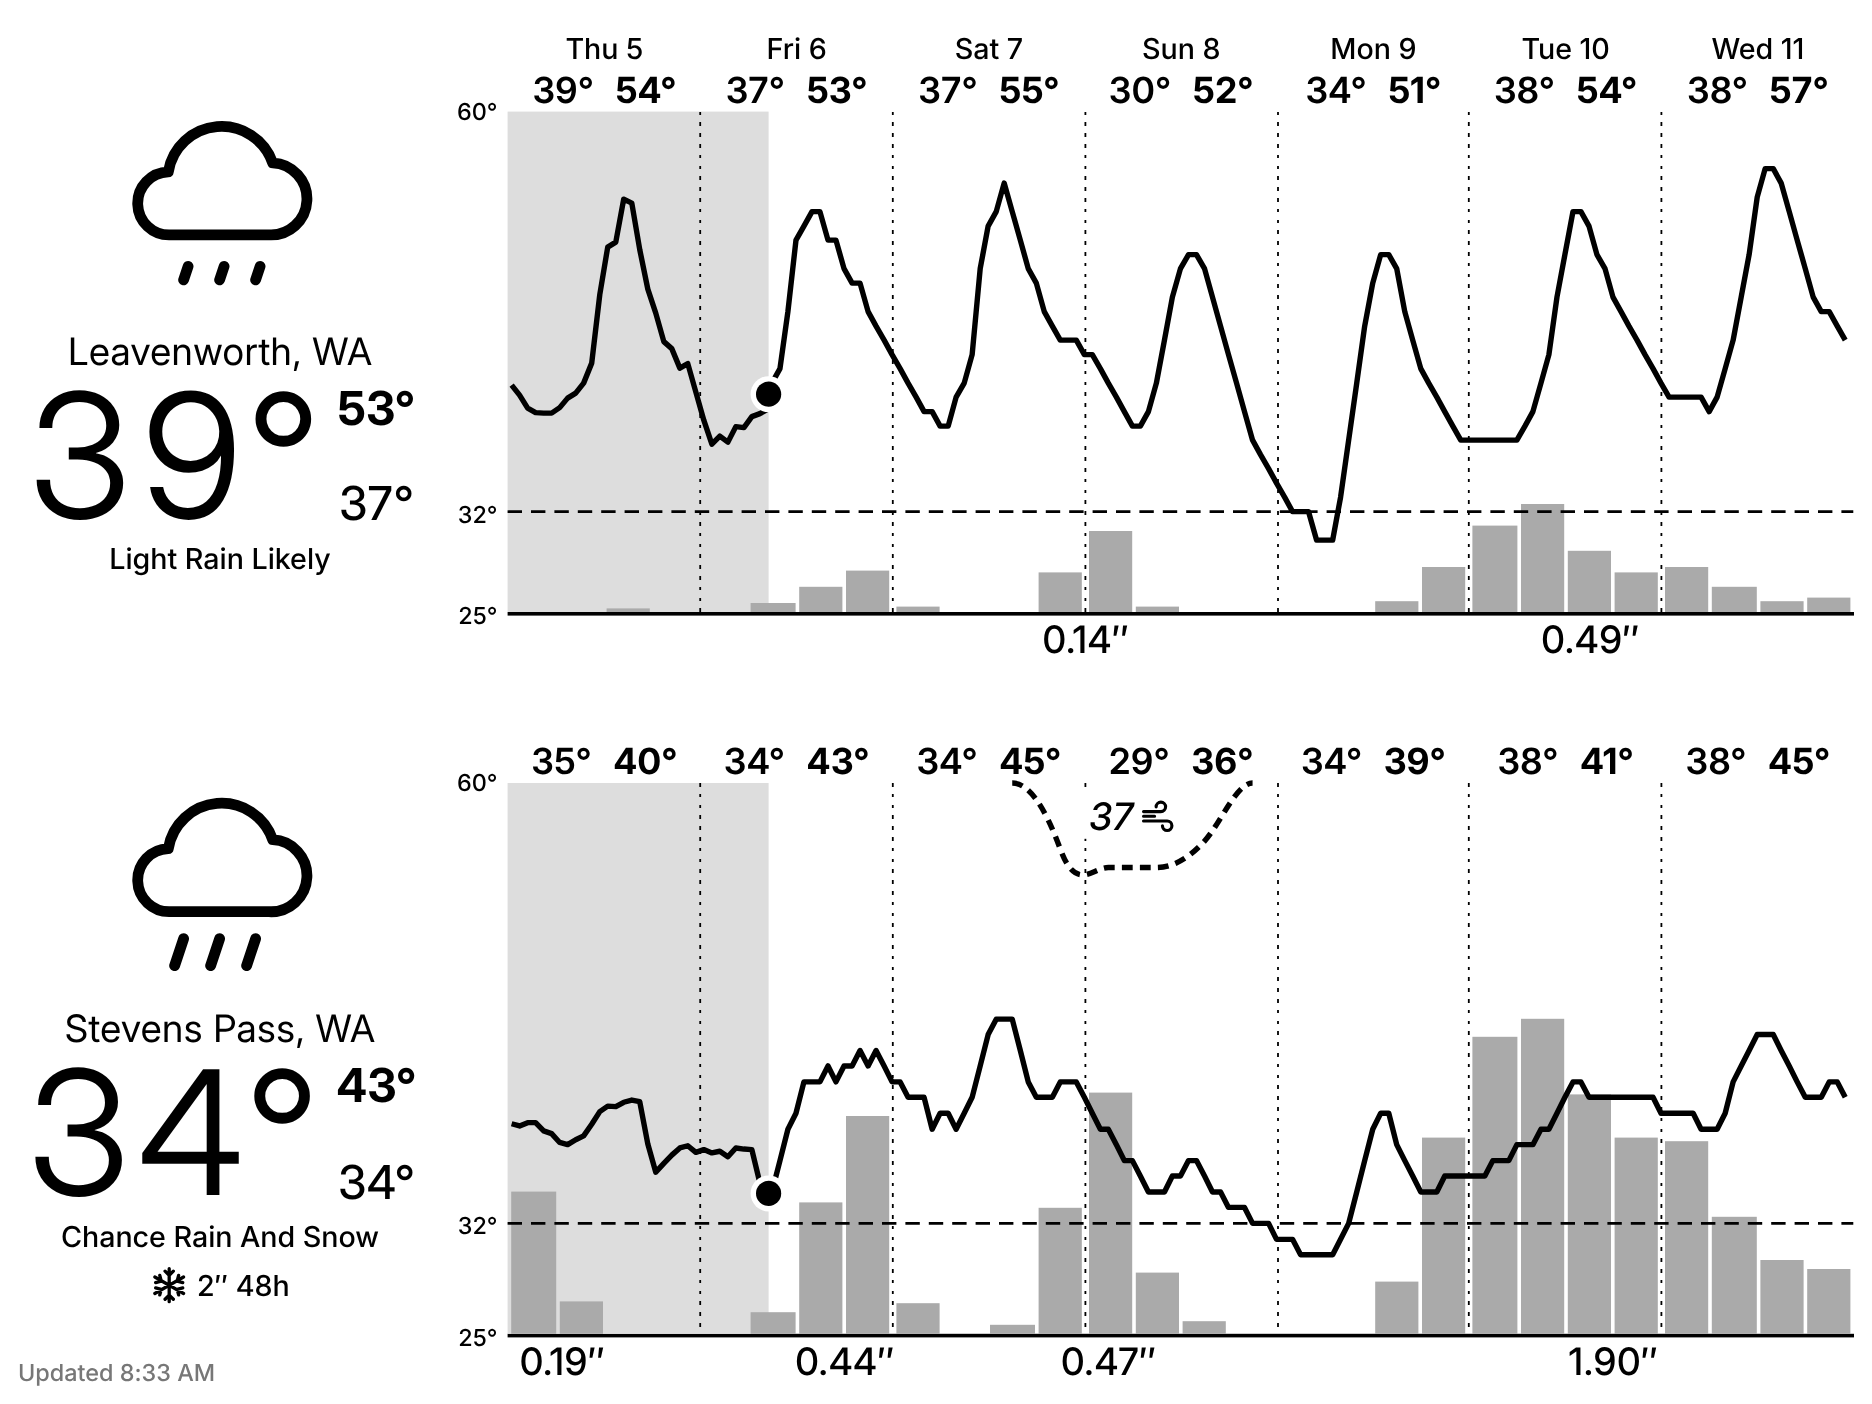
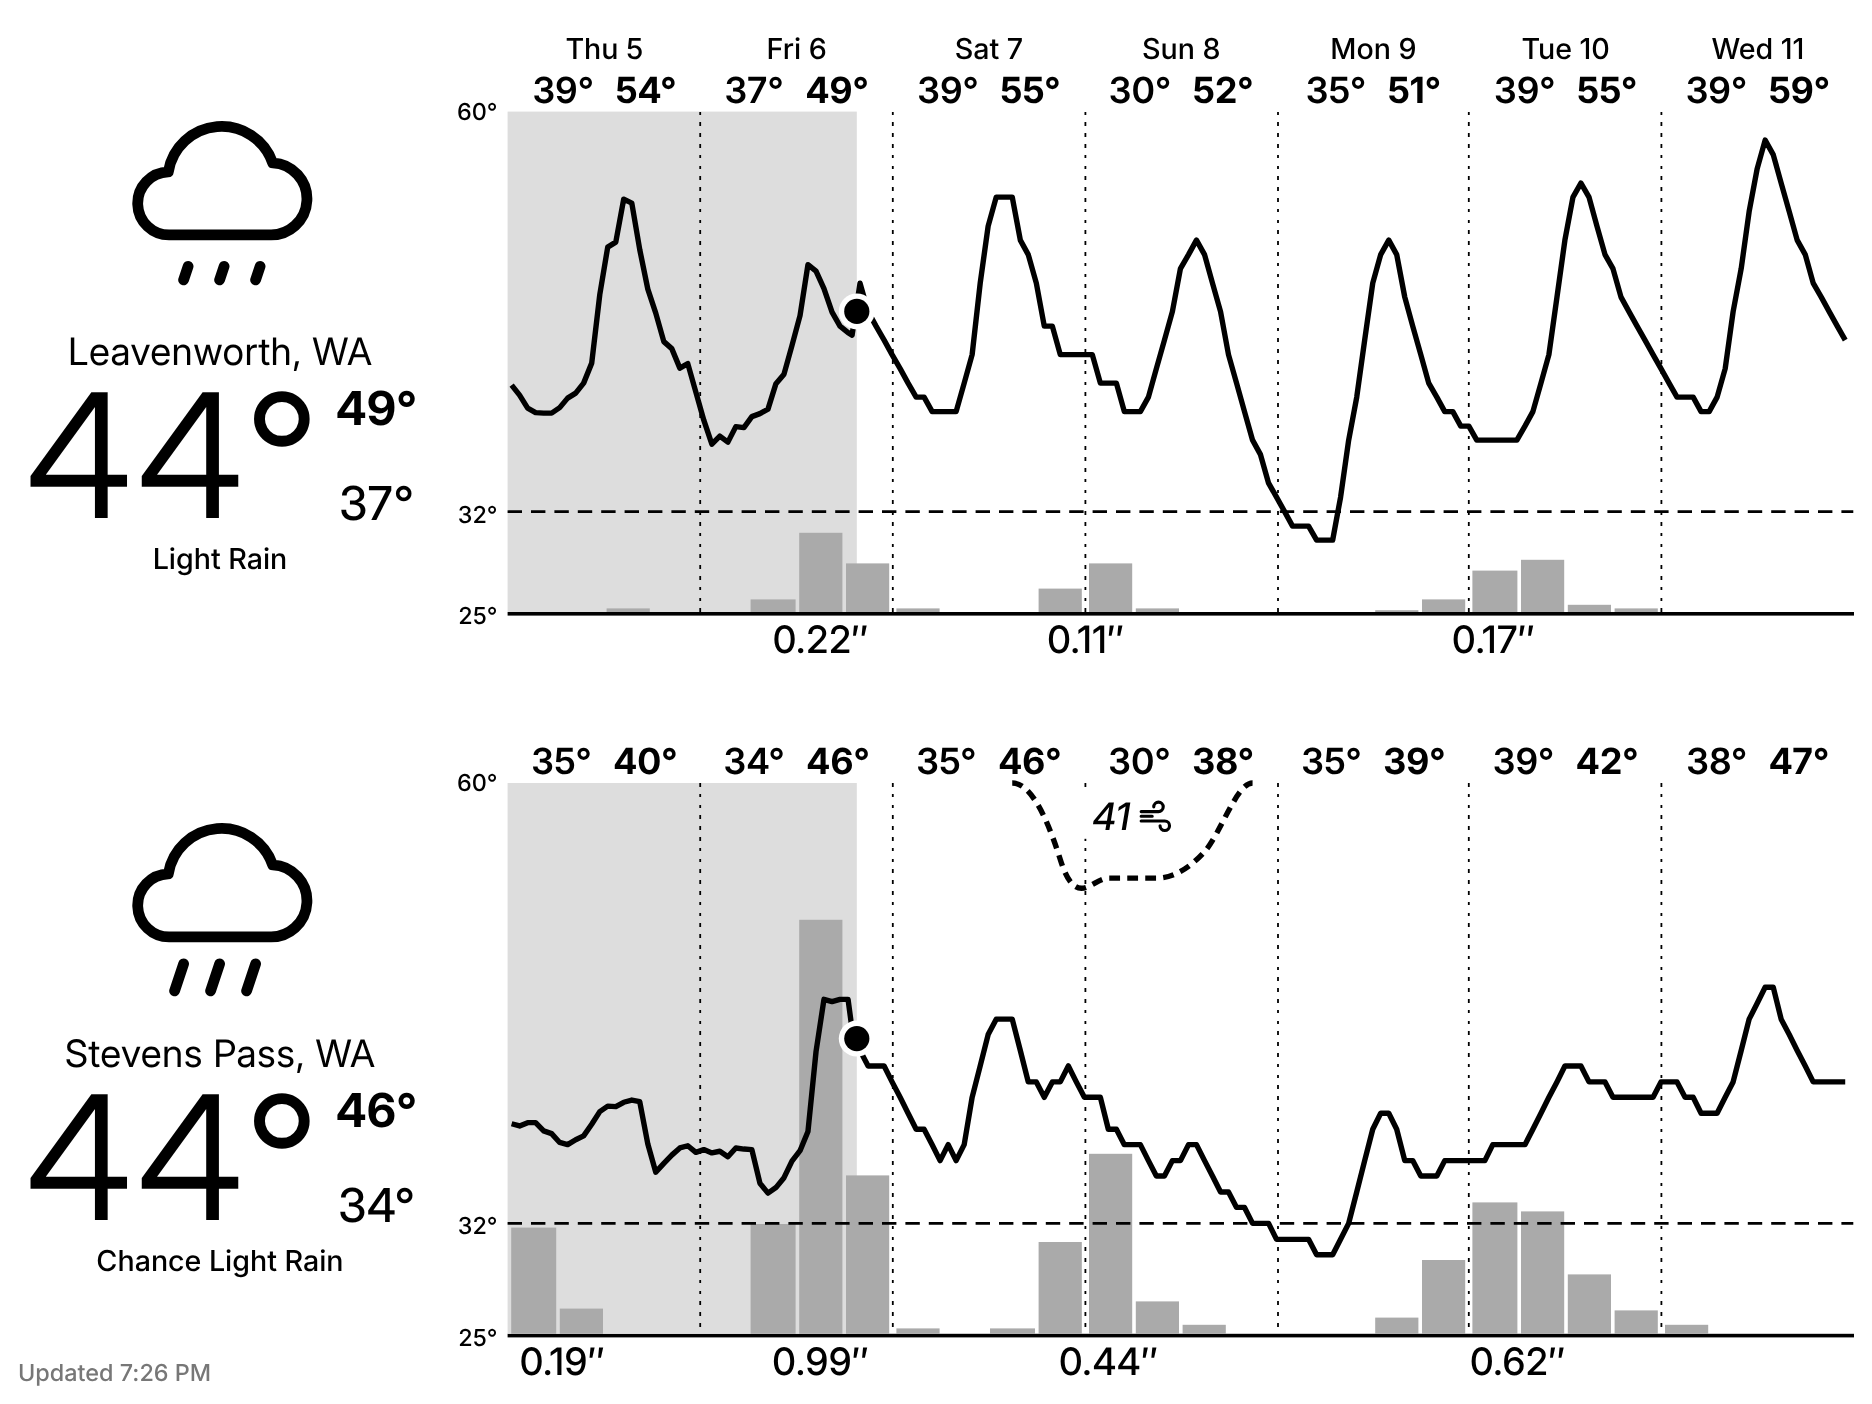
Cap bars at 75% of the chart, scaled so 6" of snow (0.6" of rain) reaches it
Claude-Session: https://claude.ai/code/session_018zBtTfGxqR6ysBZYHYeVbJ

diff --git a/server/forecast/glance_test.go b/server/forecast/glance_test.go
@@ -316,12 +316,12 @@ func TestBuildChartRainAndSnow(t *testing.T) {
 	days := make([]Day, 3)
 
 	// auto: rain buckets as rain bars, snow buckets as snow bars, on fixed scales where half
-	// height is 0.3″ of rain or 3″ of snow per 6 hours: 0.5″ of rain is 83.3%, 1″ of snow 16.7%.
+	// height is 0.3″ of rain or 3″ of snow per 6 hours: 0.5″ of rain is 62.5%, 1″ of snow 12.5%.
 	c := buildChart(&grid, days, loc, now, "us", "auto", nil, nil, 0)
 	if c.BarKind != "auto" || len(c.Bars) != 12 {
 		t.Fatalf("chart = %+v", c)
 	}
-	want := map[int]Bar{3: {83.3, "rain", "gray-55", false}, 6: {16.7, "snow", "gray-35", false}, 7: {16.7, "snow", "gray-35", false}}
+	want := map[int]Bar{3: {62.5, "rain", "gray-55", false}, 6: {12.5, "snow", "gray-35", false}, 7: {12.5, "snow", "gray-35", false}}
 	for i, b := range c.Bars {
 		if b != want[i] {
 			t.Errorf("bar %d = %+v, want %+v", i, b, want[i])
@@ -345,7 +345,7 @@ func TestBuildChartRainAndSnow(t *testing.T) {
 	// precip: all liquid, snow included as water (0.1″ per bucket), on the rain scale.
 	days = make([]Day, 3)
 	c = buildChart(&grid, days, loc, now, "us", "precip", nil, nil, 0)
-	if c.Bars[3].Height != 83.3 || c.Bars[6] != (Bar{16.7, "rain", "gray-55", false}) || c.Label != "Precip 0.70″" ||
+	if c.Bars[3].Height != 62.5 || c.Bars[6] != (Bar{12.5, "rain", "gray-55", false}) || c.Label != "Precip 0.70″" ||
 		!reflect.DeepEqual(days[1].Amounts, []string{"0.20″ precip"}) {
 		t.Errorf("precip chart = %+v, days %+v", c, days)
 	}
@@ -417,8 +417,8 @@ func TestShareScale(t *testing.T) {
 }
 
 func TestBarScale(t *testing.T) {
-	// Snow per 6 hours: linear with 3″ at half height, 6″ at full, more clipped to full.
-	for _, tc := range []struct{ amount, want float64 }{{0, 0}, {1, 16.7}, {1.5, 25}, {3, 50}, {4.5, 75}, {6, 100}, {24, 100}} {
+	// Snow per 6 hours: linear, 6″ makes the tallest bar (75% of the chart), more stops there.
+	for _, tc := range []struct{ amount, want float64 }{{0, 0}, {1, 12.5}, {1.5, 18.8}, {3, 37.5}, {4.5, 56.3}, {6, 75}, {24, 75}} {
 		if got := barHeight(tc.amount, snowHalfIn); got != tc.want {
 			t.Errorf("snow %v″ = %v%%, want %v%%", tc.amount, got, tc.want)
 		}

diff --git a/server/forecast/chart.go b/server/forecast/chart.go
@@ -203,18 +203,21 @@ type Bar struct {
 var barShades = map[string]string{"snow": "gray-35", "rain": "gray-55"}
 
 // Bar scales, per 6 hours. They never change, so the bars read the same on every screen and
-// every day: a half-height bar is 3″ of snow (0.3″ of rain), height is proportional to the
-// amount, and anything past full height (6″ / 0.6″) is drawn at full height, with the day's
-// amount label giving the real number. Snow and rain use the usual 10:1 snow-to-water ratio,
-// so equal heights hold about the same amount of water.
+// every day. The tallest bar is maxBarPct of the chart, leaving the top for the temperature line
+// and the wind: 6″ of snow (0.6″ of rain) reaches it, half that reaches half of it, height is
+// proportional to the amount, and anything heavier stops there, with the storm's label giving the
+// real number. Snow and rain use the usual 10:1 snow-to-water ratio, so equal heights hold about
+// the same amount of water.
 const (
-	snowHalfIn, rainHalfIn = 3.0, 0.3
+	maxBarPct              = 75.0
+	snowHalfIn, rainHalfIn = 3.0, 0.3 // half of the tallest bar
 	snowHalfCm, rainHalfMm = 7.5, 7.5
 )
 
-// barHeight maps an amount to 0-100 % of the chart height, with half the height at half.
+// barHeight maps an amount to a percentage of the chart height: half (of the tallest bar) at
+// half, maxBarPct at twice that and beyond.
 func barHeight(amount, half float64) float64 {
-	return math.Min(100, math.Round(500*amount/half)/10)
+	return math.Min(maxBarPct, math.Round(10*maxBarPct/2*amount/half)/10)
 }
 
 // fillBars buckets snowfall and precipitation into 6-hour bars and per-day totals.

diff --git a/README.md b/README.md
@@ -8,9 +8,9 @@ one above the other. For each location you get:
 - an hourly temperature line for the week, a dashed freezing line, and a marker at the current time
 - 6-hour bars for snow (dark) and rain (light), with each storm's total centered under it. A storm is a run of
   blocks with at least 0.02″ of rain or 0.2″ of snow; storms under 0.10″ of rain and 1″ of snow aren't labeled.
-  The scale is fixed so it can be learned: a half-height bar is 3″ of snow or 0.3″ of rain in 6 hours
-  (7.5 cm / 7.5 mm), heights are proportional, and anything over 6″ (0.6″) is drawn at full height, with the
-  storm's label giving the real amount
+  The scale is fixed so it can be learned: the tallest bar, three quarters of the chart's height, is 6″ of snow or
+  0.6″ of rain in 6 hours (15 cm / 15 mm); heights are proportional, and anything heavier stops at the tallest bar,
+  with the storm's label giving the real amount
 - wind, only when gusts reach 25 mph: a dotted curve hanging from the top of the chart for each windy spell, deeper
   for stronger gusts (the bottom of its band is 60 mph), with the spell's peak gust in it
 - with station data (see below), the chart starts yesterday: the shaded past shows measured temperatures, and
